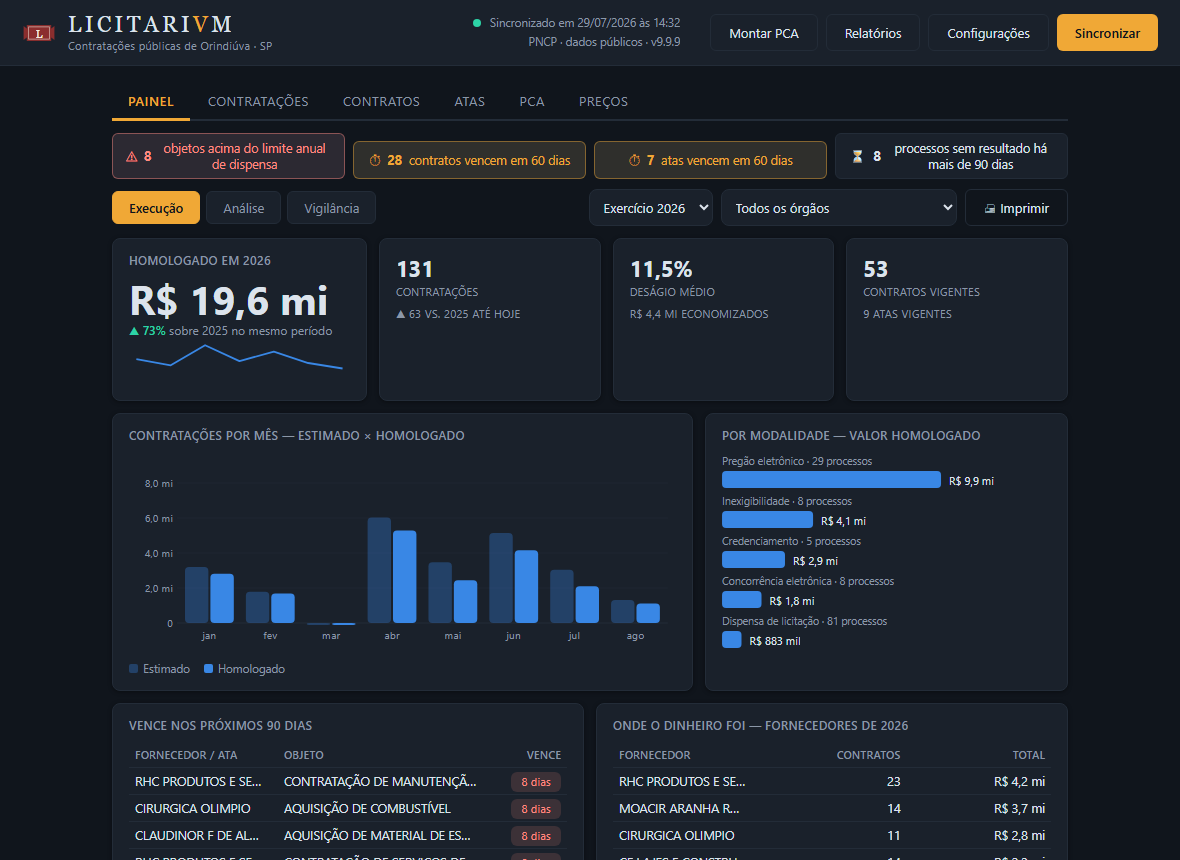
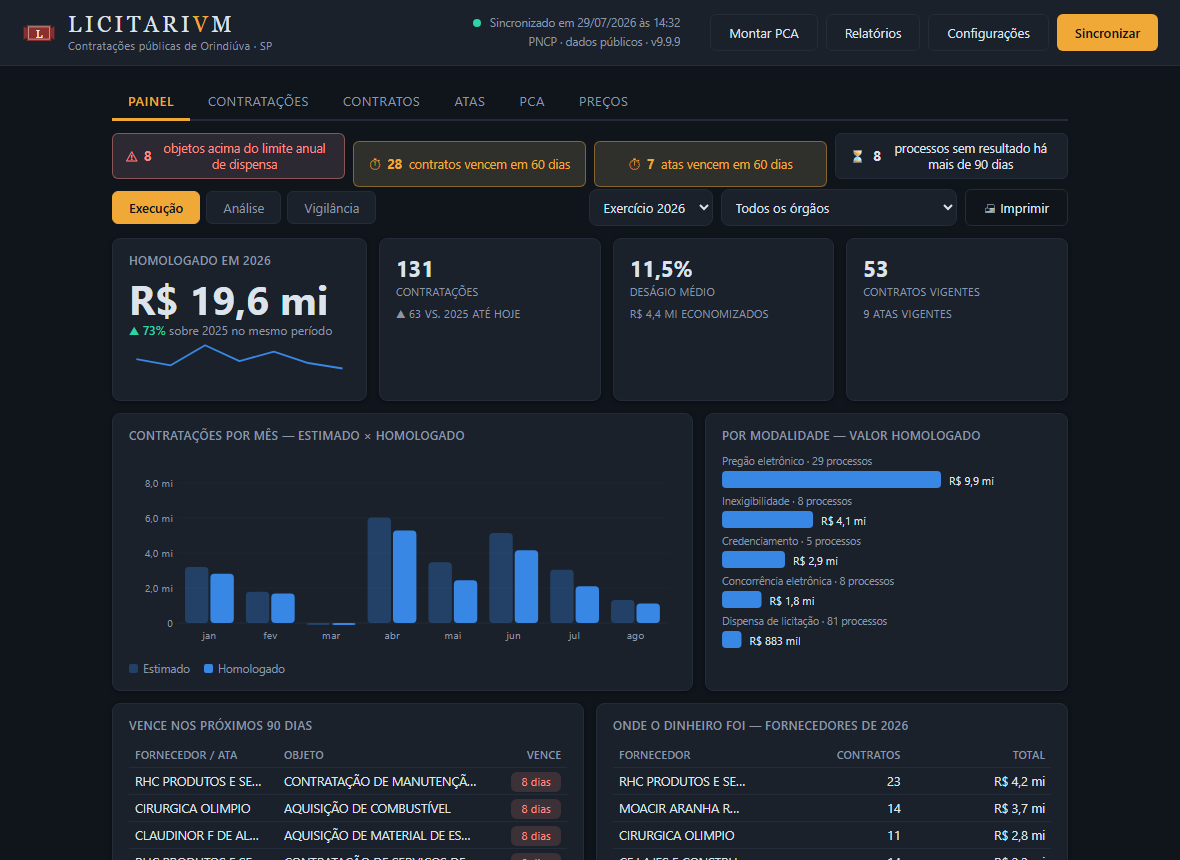
fix: altura dos cards do Painel tambem padronizada — v1.13.1
A 1.13.0 igualou a largura dos chips (.chip { flex:1 1 200px }), mas a
altura ficou torta: o card do limite anual (frase longa) quebra em duas
linhas dentro de 200px e ficava mais alto que os demais. Achado pelo
usuario sobre a captura da propria correcao.

align-items:stretch deveria igualar sozinho e nao igualou — medido duas
vezes, inclusive forcando a propriedade explicitamente no container.
Causa: .chip e <button>, elemento de formulario, e a UA stylesheet da
form controls um min-height:min-content implicito que vence o stretch
do flex/grid pai. Troquei .chips de flex para grid (mais robusto para
"mesma largura, mesma altura" de fileira em geral) e adicionei
height:100% explicito no .chip, unica coisa que de fato resolveu.

253 pytest + 99 E2E. Teste novo mede getBoundingClientRect().height dos
4 chips; conferido mordendo ao reverter so o height:100% (diferenca de
8px entre o card de 2 linhas e os de 1 linha).

Changed region(s): [[0.3051, 0.1814, 0.7017, 0.2419]]

diff --git a/ui/estilo.css b/ui/estilo.css
@@ -455,17 +455,20 @@ details.raw pre { background:var(--surface2); border-radius:var(--radius);
              letter-spacing:.04em; font-weight:600; }
 .painel td.num, .painel th.num { text-align:right;
                                  font-variant-numeric:tabular-nums; }
-.chips { display:flex; gap:8px; flex-wrap:wrap; margin:2px 0 10px; }
-/* mesma largura para todos, cresce e encolhe junto — antes cada chip só
-   media o próprio texto, e "5 objetos acima do limite anual de dispensa"
-   ficava bem mais largo que "1 processo com proposta aberta" na mesma
-   fileira. min-width evita que a fileira aperte demais um chip de texto
-   curto quando sobra pouco espaço; wrap ainda funciona em janela estreita */
-.chip { display:inline-flex; align-items:center; justify-content:center;
+/* grid, não flex: cada coluna nasce com a mesma largura (minmax) e cada
+   linha estica todo mundo pra mesma altura por padrão — flex com wrap
+   não estava esticando os chips de uma linha só (align-items:stretch
+   forçado não teve efeito nenhum, medido); grid resolve isso de graça */
+.chips { display:grid; grid-template-columns:repeat(auto-fit, minmax(200px, 1fr));
+         gap:8px; margin:2px 0 10px; }
+/* <button> resiste a esticar em flex/grid por padrão (é elemento de
+   formulário — herda min-height:min-content da UA stylesheet e ignora
+   align-items:stretch do pai); height:100% força a esticar mesmo assim */
+.chip { display:flex; align-items:center; justify-content:center;
         gap:7px; font:inherit; font-size:12.5px; padding:6px 13px;
         border-radius:var(--pill); border:1px solid var(--border);
         background:var(--surface); color:var(--text); cursor:pointer;
-        flex:1 1 200px; min-width:200px; text-align:center; }
+        text-align:center; height:100%; box-sizing:border-box; }
 .chip b { font-variant-numeric:tabular-nums; }
 .chip.grave { border-color:color-mix(in srgb, var(--erro) 45%, transparent);
               background:color-mix(in srgb, var(--erro) 8%, var(--surface));

diff --git a/MANUAL.html b/MANUAL.html
@@ -2,11 +2,11 @@
 <html lang="pt-BR">
 <head>
 <meta charset="utf-8">
-<title>Manual Operacional — Licitarium v1.13.0</title>
+<title>Manual Operacional — Licitarium v1.13.1</title>
 <style>
   @page {
     size: A4; margin: 2cm 1.8cm;
-    @top-center { content: "Licitarium v1.13.0 — Manual Operacional"; font-size: 9pt; color: #6f5b3e; }
+    @top-center { content: "Licitarium v1.13.1 — Manual Operacional"; font-size: 9pt; color: #6f5b3e; }
     @bottom-right { content: "Página " counter(page) " de " counter(pages);
                     font-size: 9pt; color: #6f5b3e; }
   }
@@ -150,7 +150,7 @@
           fill="var(--text)" text-anchor="middle">MMXXVI</text>
   </svg>
   <h1 class="mark">LICITARI<b>V</b>M</h1>
-  <div class="subtitulo">MANUAL DO USUÁRIO · VERSÃO 1.13.0</div>
+  <div class="subtitulo">MANUAL DO USUÁRIO · VERSÃO 1.13.1</div>
 </header>
 
 <h2>1. O que é o Licitarium</h2>
@@ -165,7 +165,7 @@ sincronizado e se atualiza sozinho a cada abertura. O Licitarium apenas
 <h2>2. Instalação</h2>
 <h3>Pelo executável (recomendado)</h3>
 <ol>
-  <li>Baixe o <code>Licitarium.v1.13.0.exe</code> na página de releases do
+  <li>Baixe o <code>Licitarium.v1.13.1.exe</code> na página de releases do
       projeto — o nome do arquivo traz a versão, então dá para saber qual
       você tem sem abrir o programa.</li>
   <li>Execute. Não precisa instalar, nem ter Python, nem direitos de administrador.</li>

diff --git a/tests-e2e/painel.spec.js b/tests-e2e/painel.spec.js
@@ -342,6 +342,21 @@ test("chips concordam em número", async ({ page }) => {
   await expect(chips.nth(4)).toContainText("processo sem resultado");
 });
 
+test("chips ficam com a mesma altura mesmo quando o texto quebra linha",
+    async ({ page }) => {
+  // "5 objetos acima do limite anual de dispensa" quebra em duas linhas
+  // dentro da largura de 200px; "1 processo com proposta aberta" cabe numa
+  // só. .chip é <button> — elemento de formulário, resiste a esticar em
+  // flex/grid por padrão (min-height:min-content da UA stylesheet ignora
+  // align-items:stretch do pai); sem height:100% explícito, os chips de
+  // uma linha ficavam mais baixos que os de duas.
+  const chips = page.locator("#painel-chips .chip");
+  const alturas = await chips.evaluateAll(
+    els => els.map(el => el.getBoundingClientRect().height));
+  const [primeira] = alturas;
+  for (const h of alturas) expect(h).toBeCloseTo(primeira, 0);
+});
+
 test("trocar de subaba não vai ao banco de novo", async ({ page }) => {
   const antes = await page.evaluate(() => window.__chamadas
     .filter(c => c.metodo === "painel").length);

diff --git a/licitarium.py b/licitarium.py
@@ -27,7 +27,7 @@ import pca_builder
 import pncp
 import relatorios
 
-VERSAO = "1.13.0"
+VERSAO = "1.13.1"
 # dentro do exe onefile os arquivos ficam na pasta temporária do bundle;
 # _MEIPASS é o caminho oficial para chegar até eles
 DIR_APP = Path(getattr(sys, "_MEIPASS", Path(__file__).resolve().parent))

diff --git a/design/DASHBOARD.md b/design/DASHBOARD.md
@@ -42,10 +42,22 @@ soma as duas tabelas, mas a lista é de uma tabela só, então metade da
 contagem nunca tinha como aparecer. Viraram dois chips, um por tabela, cada
 um com sua contagem (`alertas.vencendo_contratos`/`vencendo_atas`,
 `_kpis.vencendo_60_contratos`/`vencendo_60_atas`). Os cards do Painel
-também passaram a ter **largura padronizada** (`.chip { flex:1 1 200px }`):
-antes cada um só media o próprio texto, e o card do limite anual (frase
-longa) ficava bem mais largo que o de propostas abertas (frase curta) na
-mesma fileira.
+também passaram a ter **largura padronizada** (`grid-template-columns:
+repeat(auto-fit, minmax(200px, 1fr))`): antes cada um só media o próprio
+texto, e o card do limite anual (frase longa) ficava bem mais largo que o
+de propostas abertas (frase curta) na mesma fileira.
+
+**Altura também precisou de ajuste à parte** (mesmo dia, achado pelo
+usuário sobre a captura da correção acima): largura ficou igual, mas
+altura não — o card do limite anual quebra em duas linhas dentro de
+200px e ficava mais alto que os de uma linha só. `align-items:stretch`
+é o padrão do grid e deveria igualar sozinho; **não igualou**, medido
+duas vezes (inclusive forçando a propriedade). Causa: `.chip` é
+`<button>`, elemento de formulário, e form controls resistem a esticar
+em flex/grid — a UA stylesheet dá `min-height:min-content` implícito que
+vence o `stretch` do pai. Correção: `height:100%` explícito no `.chip`.
+Teste em `painel.spec.js` ("chips ficam com a mesma altura...") mede a
+`getBoundingClientRect().height` dos quatro chips.
 
 ## Regras dos gráficos
 

diff --git a/CHANGELOG.md b/CHANGELOG.md
@@ -1,5 +1,18 @@
 # Changelog
 
+## 1.13.1 — 2026-08-08
+
+**Altura dos cards do Painel também padronizada**
+
+- A 1.13.0 igualou a largura, mas a altura ficou torta: o card do limite
+  anual (frase longa) quebra em duas linhas e ficava mais alto que os
+  demais. `align-items:stretch` — que deveria igualar sozinho — não
+  igualava porque o card é um `<button>`, e elementos de formulário
+  resistem a esticar em layout flex/grid por padrão. `height:100%`
+  explícito resolve.
+
+253 pytest + 99 E2E.
+
 ## 1.13.0 — 2026-08-07
 
 **Contrato e ata deixam de dividir o mesmo alerta**
